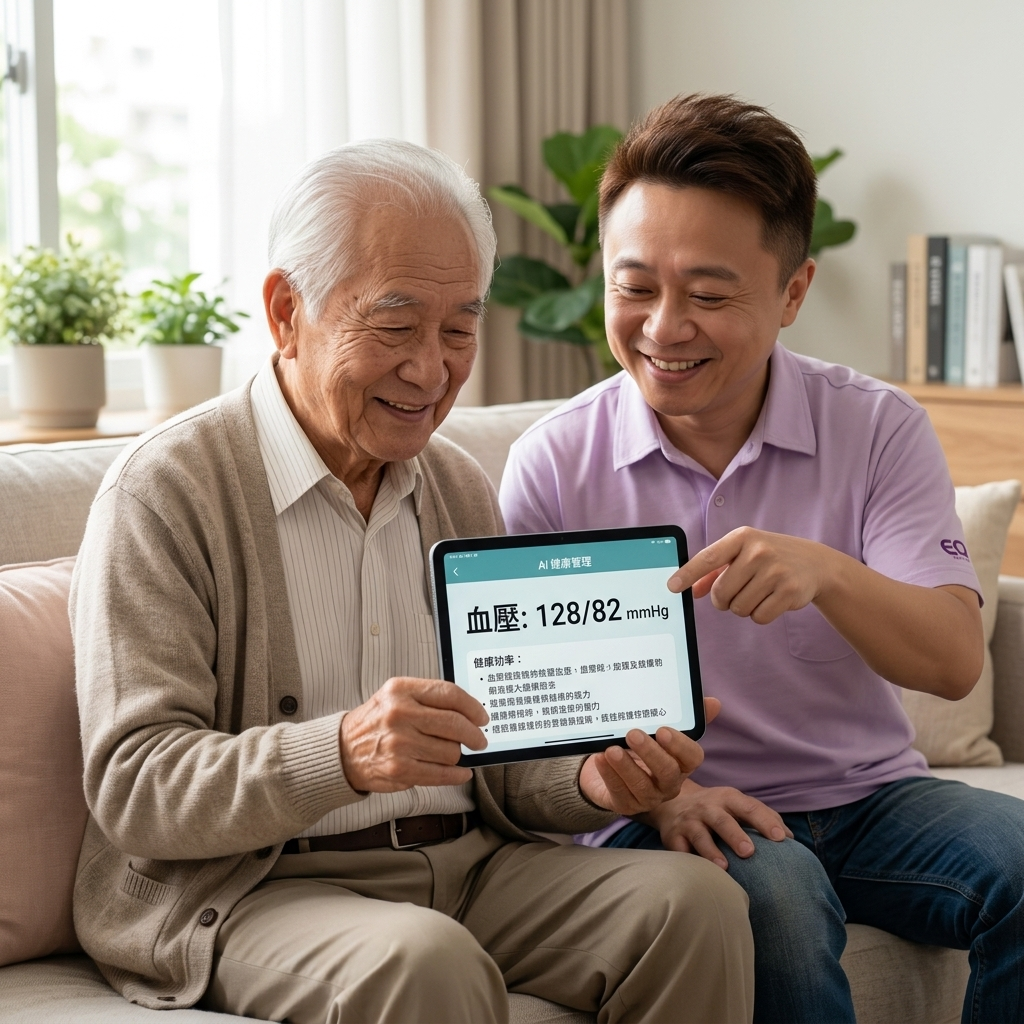
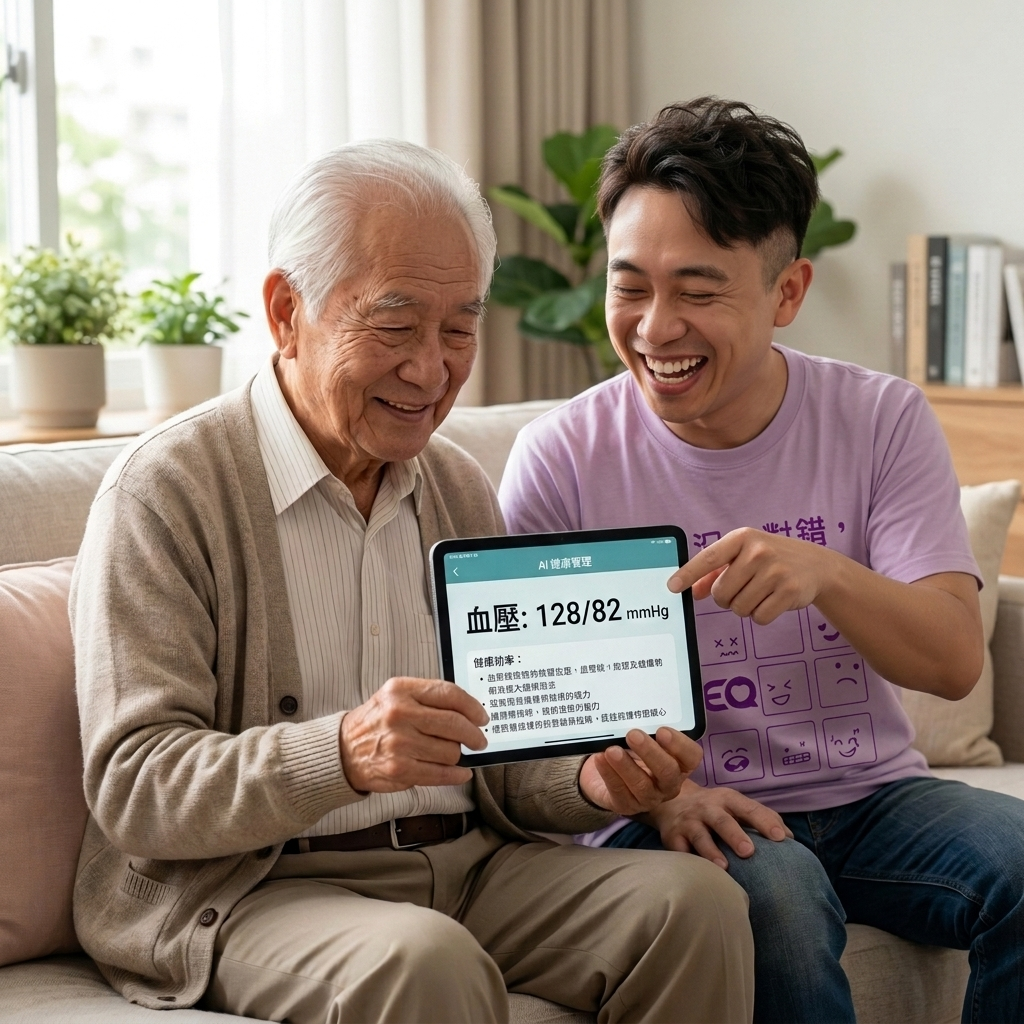
Auto backup by AI: 政見06右側人物套入Hero照片陳新昱與EQ淡紫制服並將概念示意圖標籤移至左下角

diff --git a/js/main.js b/js/main.js
@@ -136,7 +136,8 @@ const POLICIES_DATA = [
         categoryName: "專業治理與精準服務",
         title: "公費緊急救援 ＋ 獨老居家暖心守護",
         subtitle: "對接衛福部 62.5 億專案，獨老與雙老同住皆可申請！建立 24 小時公費防跌守護網，為三明治世代守住全家平安！",
-        image: "images/policy_07_health.png",
+        image: "images/policy_07_health.png?v=25.05",
+        badgePosition: "bottom-left",
         budgetSource: "衛福部 62.5 億獨老專案 ＋ 長照 2.0 專款",
         budgetSub: "<span class=\"hl-keyword\">完全不會用到</span>明德里 88 萬基層款",
         budgetDesc: "你知道嗎？年滿 65 歲以上<span class=\"hl-keyword\">「雙老同住」</span>，經評估也符合中央專案<span class=\"hl-keyword\">公費補助資格</span>，守護您家長輩的安全。",

diff --git a/index.html b/index.html
@@ -133,7 +133,7 @@
       ]
     }
     </script>
-    <link rel="stylesheet" href="css/style.css?v=25.04">
+    <link rel="stylesheet" href="css/style.css?v=25.05">
     <style>
     /* 調整主版面兩欄比例與間距，僅在桌機版生效以確保手機版正常響應式排版 */
     @media (min-width: 951px) {
@@ -1538,7 +1538,7 @@
         </div>
     </div>
 
-    <script src="js/main.js?v=25.04"></script>
+    <script src="js/main.js?v=25.05"></script>
     <script src="js/site-report-modal.js?v=1.00"></script>
 </body>
 </html>

diff --git a/sw.js b/sw.js
@@ -1,9 +1,9 @@
-const CACHE_NAME = 'mingde2-cache-v25.04';
+const CACHE_NAME = 'mingde2-cache-v25.05';
 const ASSETS_TO_CACHE = [
   './',
   'index.html',
-  'css/style.css?v=25.04',
-  'js/main.js?v=25.04',
+  'css/style.css?v=25.05',
+  'js/main.js?v=25.05',
   'manifest.json',
   'favicon.svg',
   'images/icon-192.png',
